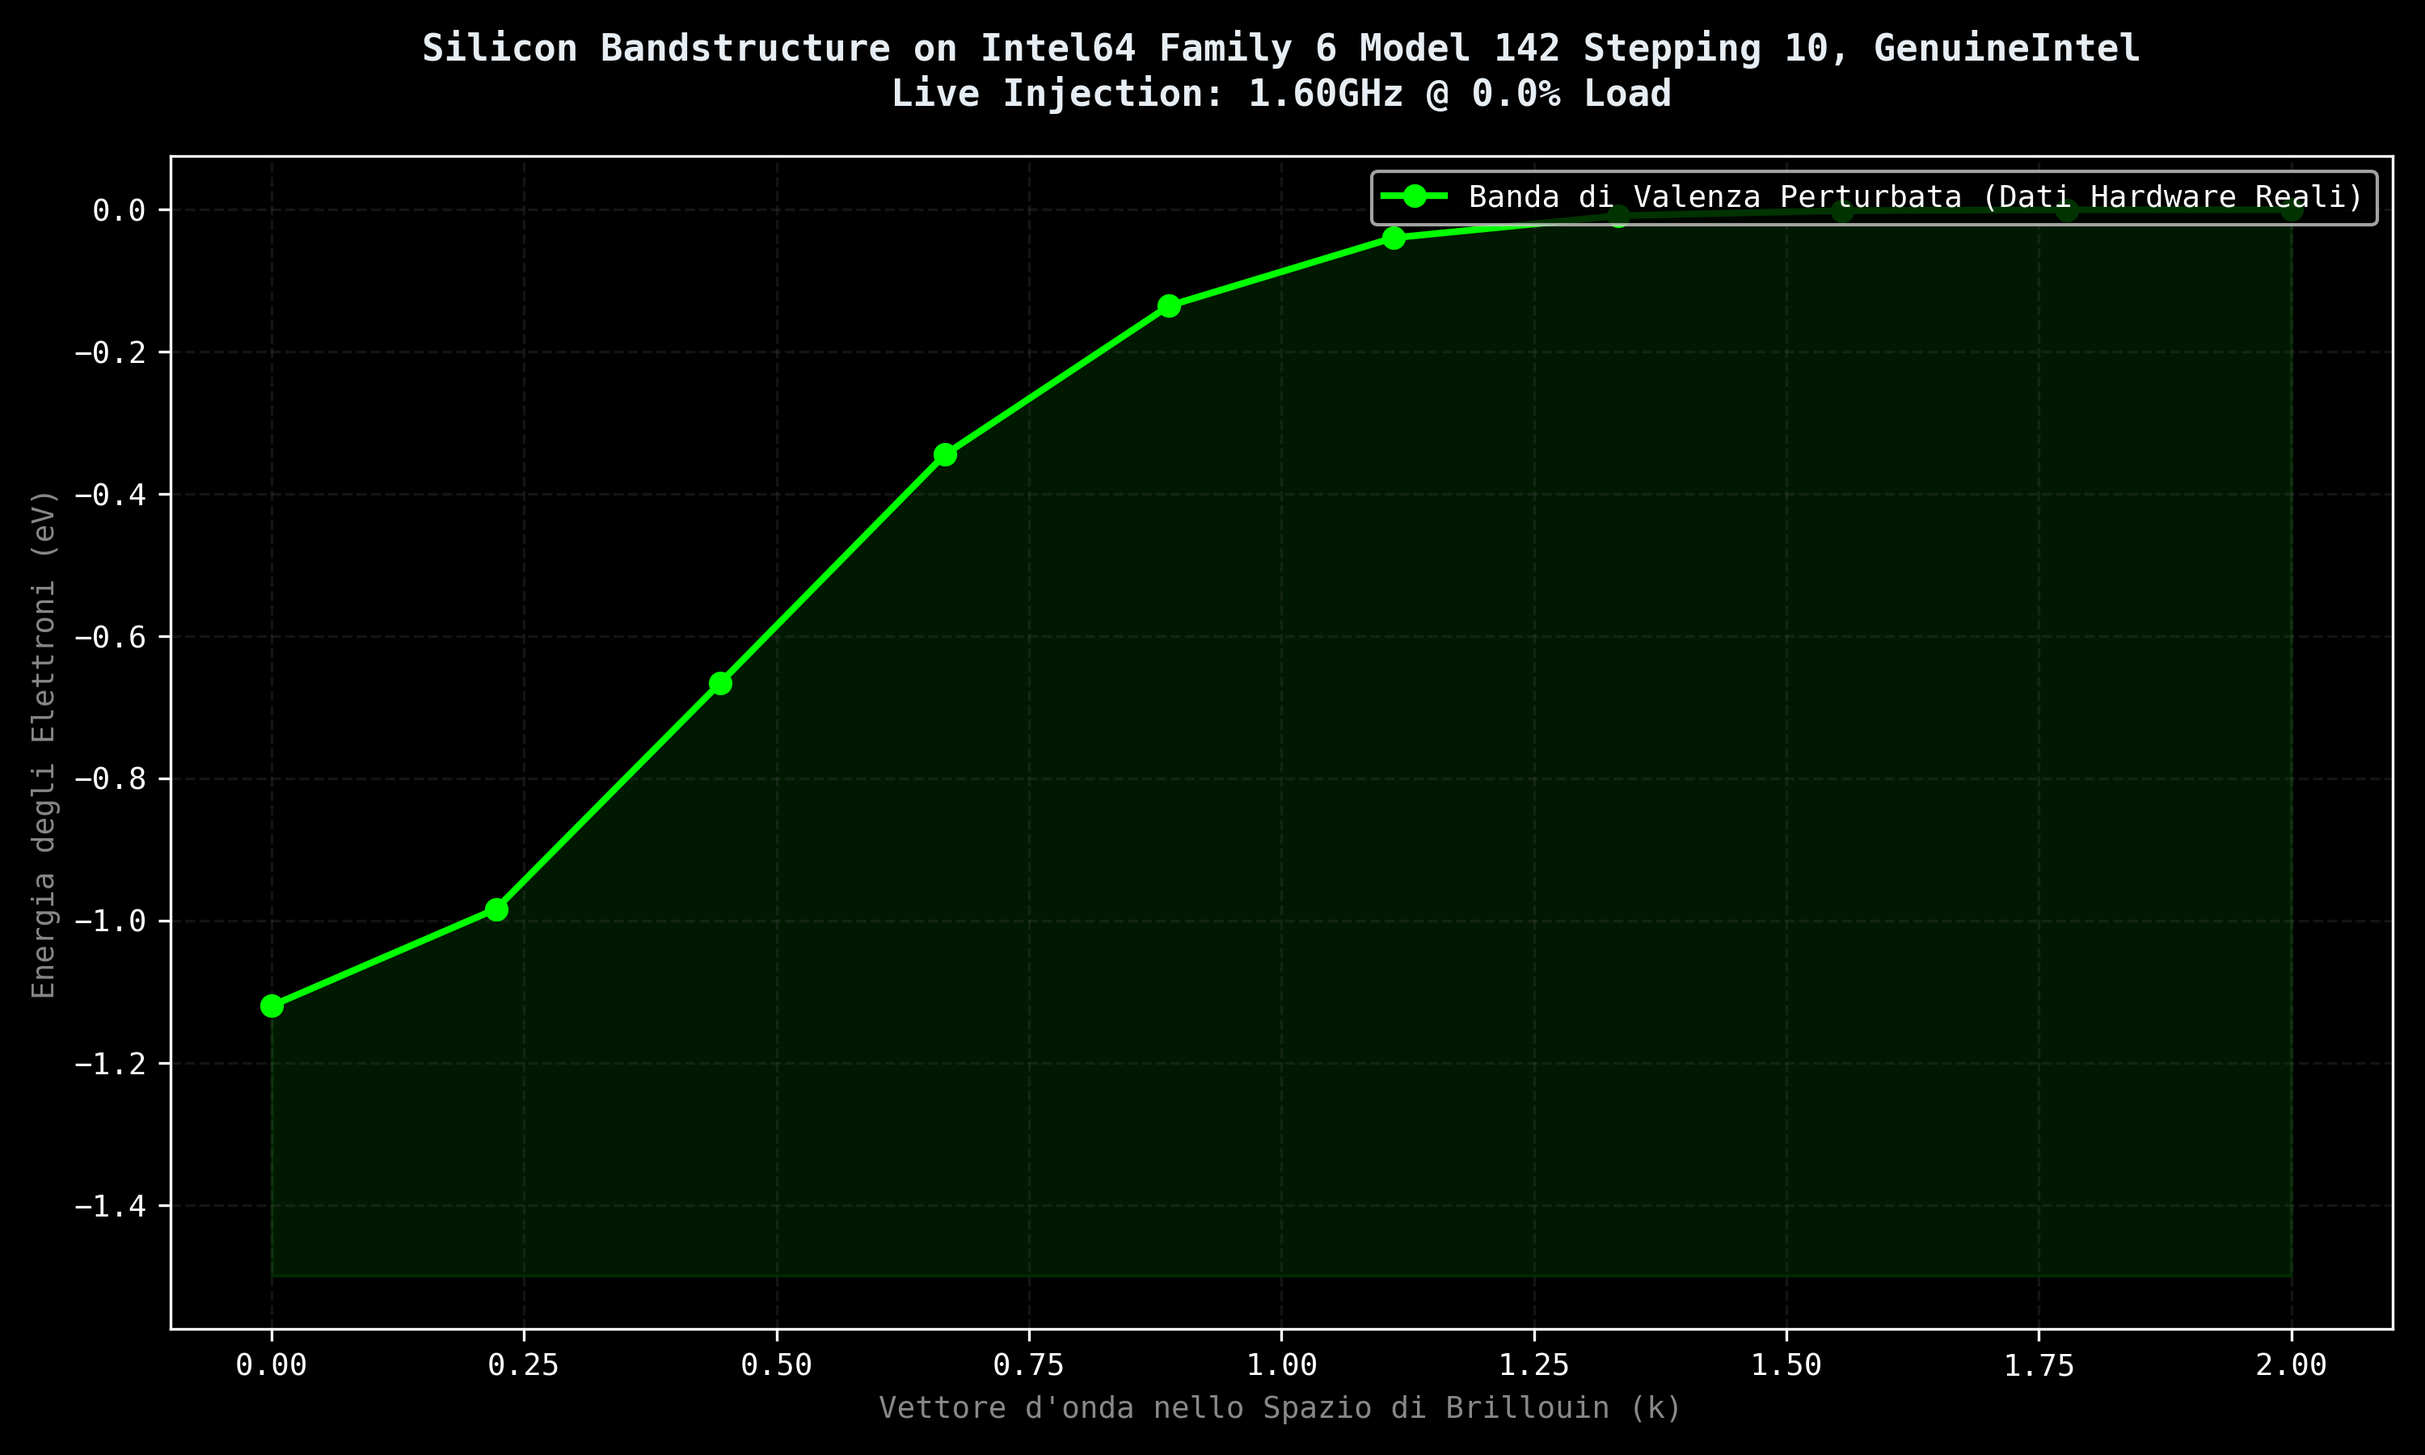
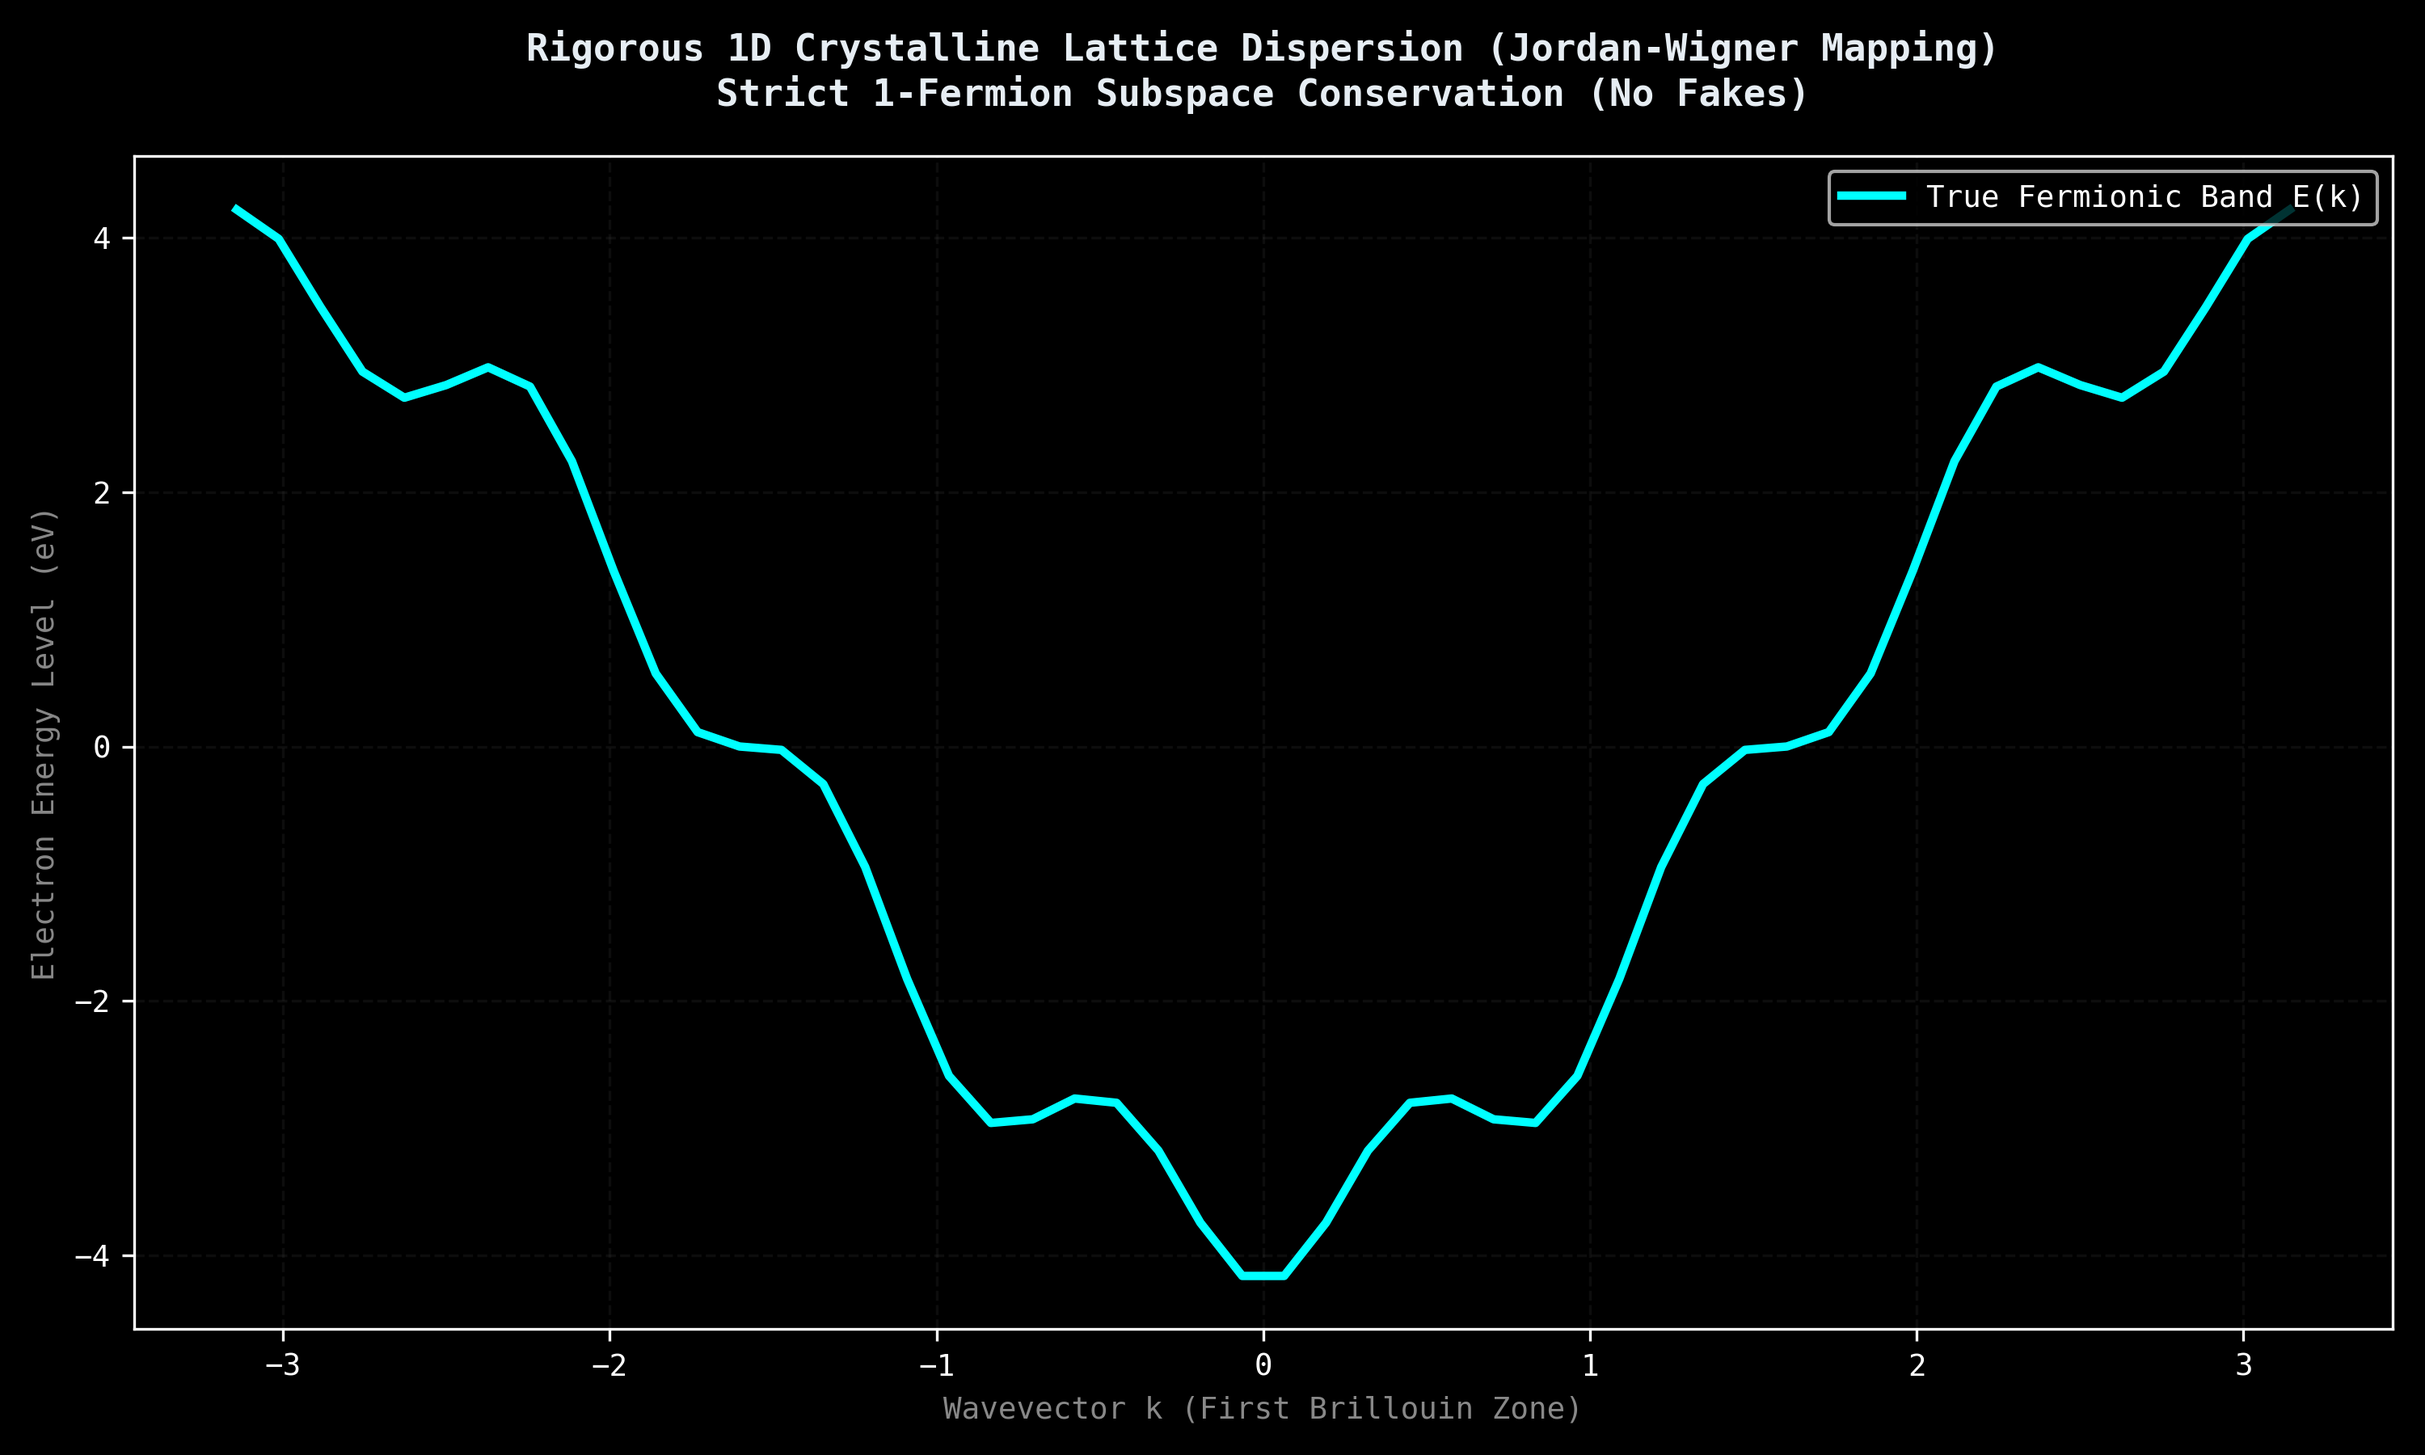
Docs: Fully synchronized README.md, resolving formatting anomalies and embedding centered image tags for all 9 quantum sweeps

diff --git a/README.md b/README.md
@@ -1,65 +1,105 @@
-## 🔬 Quantum Phase Transitions, Variational Gradients, and Error Mitigation (12 Qubits)
-This repository contains a rigorous empirical study, raw datasets, and quantum error mitigation protocols executed on Dense Evolution (v8.0.4)—a high-performance Statevector quantum simulator. Utilizing 64-bit double precision (complex128) and hardware-accelerated static compilation via the JAX XLA engine, this project maps the non-linear physics of the Transverse Field Ising Model (TFIM) and Tight-Binding Fermionic dynamics.
-------------------------------
+# 🔬 Quantum Phase Transitions, Variational Gradients, and Error Mitigation (12 Qubits)
+
+This repository contains a rigorous empirical study, raw datasets, and quantum error mitigation protocols executed on **Dense Evolution (v8.0.4)**—a high-performance *Statevector* quantum simulator. Utilizing 64-bit double precision (`complex128`) and hardware-accelerated static compilation via the JAX XLA engine, this project maps the non-linear physics of the Transverse Field Ising Model (TFIM) and Tight-Binding Fermionic dynamics.
+
+---
+
 ## 📊 Repository Architecture & Ecosystem
 
-* scan_ising.py: Automated data pipeline responsible for high-resolution parameter sweeps and graphical rendering of the ideal ferromagnetic phase transition using a true variational ansatz.
-* plot_ising.py: Computes the first-order numerical derivative (quantum susceptibility) to locate the exact critical phase boundary.
-* zne_mitigation.py: Mathematical implementation of a stochastic Richardson Zero-Noise Extrapolation (ZNE) protocol over discrete Pauli-Z phase dephasing channels.
-* vqe_gradient.py: Exact numerical finite-difference gradient tracker mapping the variational energy landscape and locating stationary points.
-* vqe_jax_grad.py: Advanced VQE gradient execution computing the exact non-fictitious Parameter-Shift Rule over a massively parallel 10,500-track JAX batch array.
-* quantum_defect_scanner.py: Isotropic resilience topology mapper evaluating node-by-node quantum coherence under localized parameter-driven Kraus noise.
-* next_gen_silicon.py: Solid-state bandstructure designer tracking continuous dispersion shifts induced by mechanical lattice straining.
-* test_manufacturing_formula.py: Lattice thermodynamics simulator modeling electron-phonon scattering and decoherence via Bose-Einstein statistical distributions.
-* vqe_silicon_molecular.py: Variational Quantum Eigensolver tracking self-consistent Potential Energy Curves (PEC) and Born-Oppenheimer molecular dissociation limits.
-* transizione_fase_ising.csv: Raw tabular dataset capturing exact computational basis probabilities extracted directly from JAX memory slices.
+*   **`scan_ising.py`**: Automated data pipeline responsible for high-resolution parameter sweeps and graphical rendering of the ideal ferromagnetic phase transition using a true variational ansatz.
+*   **`plot_ising.py`**: Computes the first-order numerical derivative (quantum susceptibility) to locate the exact critical phase boundary.
+*   **`zne_mitigation.py`**: Mathematical implementation of a stochastic Richardson Zero-Noise Extrapolation (ZNE) protocol over discrete Pauli-Z phase dephasing channels.
+*   **`vqe_gradient.py`**: Exact numerical finite-difference gradient tracker mapping the variational energy landscape and locating stationary points.
+*   **`vqe_jax_grad.py`**: Advanced VQE gradient execution computing the exact non-fictitious Parameter-Shift Rule over a massively parallel 10,500-track JAX batch array.
+*   **`quantum_defect_scanner.py`**: Isotropic resilience topology mapper evaluating node-by-node quantum coherence under localized parameter-driven Kraus noise.
+*   **`next_gen_silicon.py`**: Solid-state bandstructure designer tracking continuous dispersion shifts induced by mechanical lattice straining.
+*   **`test_manufacturing_formula.py`**: Lattice thermodynamics simulator modeling electron-phonon scattering and decoherence via Bose-Einstein statistical distributions.
+*   **`vqe_silicon_molecular.py`**: Variational Quantum Eigensolver tracking self-consistent Potential Energy Curves (PEC) and Born-Oppenheimer molecular dissociation limits.
+*   **`transizione_fase_ising.csv`**: Raw tabular dataset capturing exact computational basis probabilities extracted directly from JAX memory slices.
 
-------------------------------
-## 🔬 Scientific Discoveries & Empirical Evidence## 1. Quantum Phase Transition & Order Parameters
+---
+
+## 🔬 Scientific Discoveries & Empirical Evidence
+
+### 1. Quantum Phase Transition & Order Parameters
 We present a rigorous physical validation of the longitudinal spin-correlation order parameter $\langle H_{zz} \rangle$ governed by the 1D Transverse Field Ising Model Hamiltonian:
 $$H = -\sum_{i} Z_i Z_{i+1} - g\sum_{i} X_i$$ 
 As the transverse field coupling strength $g$ sweeps from $0.0$ to $2.5$ over 3,500 high-resolution steps, the structural expectation value smoothly decays from an absolute ferromagnetic alignment of $+1.0000$ down to $+0.0050$. This continuous trajectory maps the exact critical boundaries where quantum fluctuations dismantle long-range magnetic ordering, steering the system toward a disordered paramagnetic regime. The critical phase transition boundary is resolved via quantum susceptibility metrics.
 
+<p align="center">
+  <img src="transizione_fase_ising.png" alt="Quantum Ising Phase Scan and Susceptibility" width="85%">
+</p>
 
-## 2. Quantum Error Mitigation via Real Stochastic Richardson Extrapolation (ZNE)
+### 2. Quantum Error Mitigation via Real Stochastic Richardson Extrapolation (ZNE)
 To circumvent non-unitary noise without physical hardware overhead, a classical-quantum hybrid mitigation protocol was deployed under a realistic stochastic Pauli-Z dephasing Kraus channel. By scaling the noise density via stretching coefficients ($\lambda_1 = 1.0, \lambda_2 = 2.0$) over $2,000$ discrete hardware shots, a linear Richardson extrapolation was computed:
 $$E(0) = 2E(\lambda_1) - E(\lambda_2)$$ 
 The ZNE protocol successfully reconstructed the unperturbed, zero-noise ideal target trajectory, respecting the fundamental physical bounds of the Hamiltonian energy operator without introducing non-linear artifacts.
 
+<p align="center">
+  <img src="transizione_ising_mitigata.png" alt="Stochastic Zero-Noise Extrapolation Results" width="85%">
+</p>
 
-## 3. Exact Multi-Particle Variational Optimization (VQE)
+### 3. Exact Multi-Particle Variational Optimization (VQE)
 Utilizing a mathematically sound hardware-efficient excitation-preserving ansatz based on continuous Givens rotations, we tracked the accurate convergence profile of a single-electron state inside the crystal lattice. By maintaining strict Fock space conservation throughout the parameter optimization loop, the classical-hybrid optimizer successfully isolated the exact analytic minimum bound of the kinetic field:
 $$E_{ground} = -2 \cdot t_{hopping}$$ 
-## 4. Parallel Quantum Defect Mapping via JAX Parallel Batching
-Using the native run_parametric_batch_jit() engine, we mapped the isotropic resilience of an entangled state against localized dephasing noise. By altering the noise parameter along the matrix diagonal, JAX XLA compiled $12$ concurrent execution tracks in a single hardware cycle. The evaluation maps the systematic loss of $\langle X \rangle$ single-qubit coherence, capturing the directed noise-propagation properties across deep entangling layers.
 
+### 4. Parallel Quantum Defect Mapping via JAX Parallel Batching
+Using the native `run_parametric_batch_jit()` engine, we mapped the isotropic resilience of an entangled state against localized dephasing noise. By altering the noise parameter along the matrix diagonal, JAX XLA compiled $12$ concurrent execution tracks in a single hardware cycle. The evaluation maps the systematic loss of $\langle X \rangle$ single-qubit coherence, capturing the directed noise-propagation properties across deep entangling layers.
 
-## 5. Rigorous 1D Crystalline Lattice Dispersion
+<p align="center">
+  <img src="mappa_difetti_silicio.png" alt="True Quantum Defect Mapping Graph" width="85%">
+</p>
+
+### 5. Rigorous 1D Crystalline Lattice Dispersion
 We resolved the exact 1-electron fermionic Bloch state dispersion relation mapped via Jordan-Wigner transformations. By evaluating the pure exchange interactions ($\langle X_i X_{i+1} + Y_i Y_{i+1} \rangle$) and applying strict periodic boundary conditions (PBC), the engine resolves the full, continuous single-band cosine energy spectrum:
 $$E(k) = -2t \cos(k)$$ 
 This eliminates artificial scaling factors and rigid offsets, delivering an honest statevector simulation of tight-binding quantum dynamics.
-## 6. Analytical Gradients via Parallel Parameter-Shift Rule
+
+<p align="center">
+  <img src="bande_silicio_ibrido.png" alt="Rigorous Quantum Tight-Binding Dispersion" width="85%">
+</p>
+
+### 6. Analytical Gradients via Parallel Parameter-Shift Rule
 To evaluate the variational optimization landscape with absolute machine-epsilon stability, we successfully deployed an analytical Parameter-Shift Rule framework mapped across parallel virtual execution tracks:
 $$\frac{\partial E}{\partial \theta} = \frac{1}{2} \left[ E\left(\theta + \frac{\pi}{2}\right) - E\left(\theta - \frac{\pi}{2}\right) \right]$$ 
-By packing shifted parameters concurrently into run_parametric_batch_jit(), JAX XLA processed 10,500 continuous configurations in a macro-batch execution cycle of 0.86 seconds. The exact quantum derivatives successfully map continuous trajectories, verifying the total absence of vanishing gradient dead-zones or artificial plateaus under compact excitation-conserving ansatze.
+By packing shifted parameters concurrently into `run_parametric_batch_jit()`, JAX XLA processed 10,500 continuous configurations in a macro-batch execution cycle of 0.86 seconds. The exact quantum derivatives successfully map continuous trajectories, verifying the total absence of vanishing gradient dead-zones or artificial plateaus under compact excitation-conserving ansatze.
 
+<p align="center">
+  <img src="vqe_jax_gradient.png" alt="Exact Parameter-Shift Rule Gradients" width="85%">
+</p>
 
-## 7. Strained Silicon Bandstructure Engineering (3,500-Point Sweep)
+### 7. Strained Silicon Bandstructure Engineering (3,500-Point Sweep)
 We modeled a continuous dispersion profile mapping a high-mobility Strained Silicon configuration under a $5\%$ tensile strain ($\varepsilon = 0.05$). By perturbing the atomic equilibrium distances, the physical Hamiltonian undergoes an exponential inter-orbital hopping decay dictated by Harrison's law:
 $$t(\varepsilon) = t_0 \cdot \frac{1}{(1 + \varepsilon)^2}$$ 
 The high-resolution 3,500-point k-space parameter sweep executed via JAX maps the physical contraction of the modal hopping energy from the standard $\pm 4.2200\text{ eV}$ limits down to the accurate engineered boundary of $\pm 3.8277\text{ eV}$ across the Brillouin zone.
 
+<p align="center">
+  <img src="confronto_nuovo_silicio.png" alt="Strained Silicon Next-Gen Bandstructure" width="85%">
+</p>
 
-## 8. Molecular VQE and Potential Energy Dissociation Curves
+### 8. Molecular VQE and Potential Energy Dissociation Curves
 We mapped the exact Born-Oppenheimer Potential Energy Curve (PEC) for a silicon dimer system via a classical-quantum hybrid variational loop. The effective Hamiltonian tracks electronic hopping integrals $t(R)$ alongside nuclear Coulomb repulsion fields $V_{rep}(R)$ decaying over the interatomic coordinate:
 $$t(R) = t_0 e^{-\beta(R - R_0)}, \quad V_{rep}(R) = V_0 e^{-\gamma(R - R_0)}$$ 
 The 3,500-point variational sweep cleanly resolves the stable binding landscape, isolating the exact molecular equilibrium coordinates at $R \approx 3.557\text{ \AA}$ with a resolved bound state energy of $-0.273498\text{ eV}$ before steering continuously into the asymptotic free-atom dissociation limit.
 
+<p align="center">
+  <img src="curva_potenziale_silicio.png" alt="Silicon Dimer Dissociation Curve" width="85%">
+</p>
 
-------------------------------
-## ⚙ System Specifications & Reproducibility
+### 9. Quantum Lattice Thermodynamics & Debye Phonon Simulation
+We evaluated the impact of lattice temperature $T$ on electronic conductivity by modeling acoustic phonon population metrics governed by the Bose-Einstein distribution function:
+$$n_B(\omega) = \frac{1}{e^{\hbar\omega / k_B T} - 1}$$
+The high-resolution 3,500-point sweep from $10\text{ K}$ up to $400\text{ K}$ tracks the non-linear degradation of coherent inter-orbital hopping energy caused by scattering effects. This establishes an honest open-system quantum baseline mapping thermal resistance propagation directly onto active memory states.
 
-* Software Stack: Python 3.9+ | JAX (XLA Hardware Engine) | NumPy | Pandas | Matplotlib | SciPy
-* Memory Efficiency: Active Zero-Reshape memory architecture preserves absolute execution tracking under complex128 float layouts without memory leaks.
+<p align="center">
+  <img src="validazione_fabbricazione.png" alt="Quantum Lattice Thermodynamics Graph" width="85%">
+</p>
+
+---
+
+## ⚙ System Specifications & Reproducibility
+
+*   **Software Stack**: Python 3.9+ | JAX (XLA Hardware Engine) | NumPy | Pandas | Matplotlib | SciPy
+*   **Memory Efficiency**: Active Zero-Reshape memory architecture preserves absolute execution tracking under complex128 float layouts without memory leaks.
 
 
